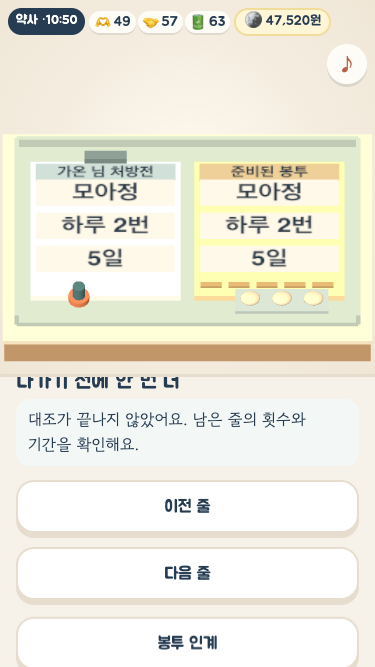
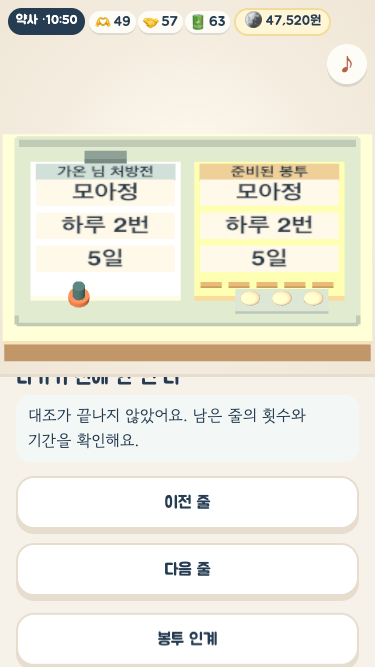
Hand off revised hospital activities with final small-phone evidence

diff --git a/career-day/CODEX-BOARD.md b/career-day/CODEX-BOARD.md
@@ -38,5 +38,11 @@
 
 ### 물리치료사 · ff81117
 
-매트와 세 기구를 정리한 뒤 서우 님의 외출 목표를 다룹니다. 길 모형의 공원·계단·빵집을 살펴보고 벤치와 난간을 설치합니다. 계단을 지난 뒤에 벤치를 놓으면 서우 님이 왜 그곳까지 걷기 어려운지 알려 주고 벤치가 돌아갑니다. 다음 근무자에게 시설 배치를 기록합니다.
+매트와 세 기구를 정리한 뒤 서우 님의 외출 목표를 다룹니다. 길 모형의 공원·계단·빵집을 살펴보고 벤치와 난간을 설치합니다. 계단을 지난 뒤에 벤치를 놓으면 서우 님이 왜 그곳까지 걷기 어려운지 알려 주고 벤치가 돌아갑니다. 마지막 인계에서는 서우 님의 목표와 치료 중 관찰한 내용을 고릅니다.
 [빵집 길 모형 전후](review/2026-11-21/revision/physio/afternoon-before-after.png) · [재활실](review/2026-11-21/revision/physio/floor.png)
+
+### 자체 확인 결과와 독립 검토 요청
+
+앱 수정 최종 b584de8. 약사·원무·물리치료 각각 브라우저 iPhone 13 크기 터치, SE 375×667 오답 터치, PC 동작 줄이기 마우스로 출근부터 기록 저장까지 확인했습니다. 앱 오류·가로 밀림 0, 모든 전체 영상 흰 프레임 0, 최대 깜박임 초당 2회입니다. 전체 경로의 1차 측정치는 results.json에 남겼습니다. 약사의 첫 SE 실행에서 오후의 네 번째 선택지가 잘려 문장을 줄였고, [같은 장면 재검사](review/2026-11-21/revision/pharmacist/four-choices.png)에서 네 개가 동시에 보입니다. 세 직업의 작은 폰 최종 확인은 각각 se-final.txt와 se-final.json입니다. 약사 PC에서 상담 약속을 지키고 SE에서는 놓치는 경로를 확인했습니다. 실물 기기 검사는 별도입니다.
+
+검증 사진 커밋은 약사 06a6282, 원무 8efeef2, 물리치료 f50338b입니다. 공통 검사, 병원·소방서 모델과 걷기 검사, 카페와 우주항공 검사, 생성 파일 44개 일치 검사 통과. 준비판 e37faff 이후 다섯 공용 엔진 파일 변경 없음. 이번 판은 총괄 Claude의 내용 재채점을 기다립니다. 운영 반영과 PR 병합은 보류했습니다.
